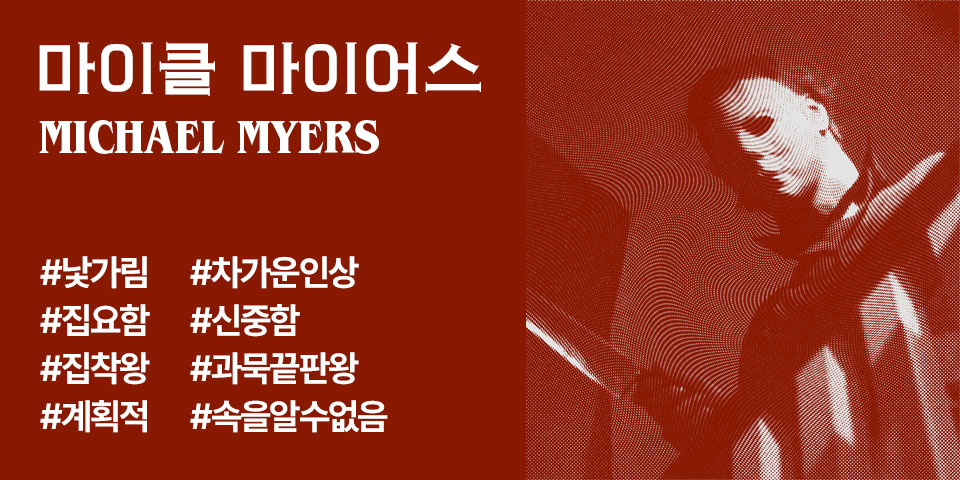
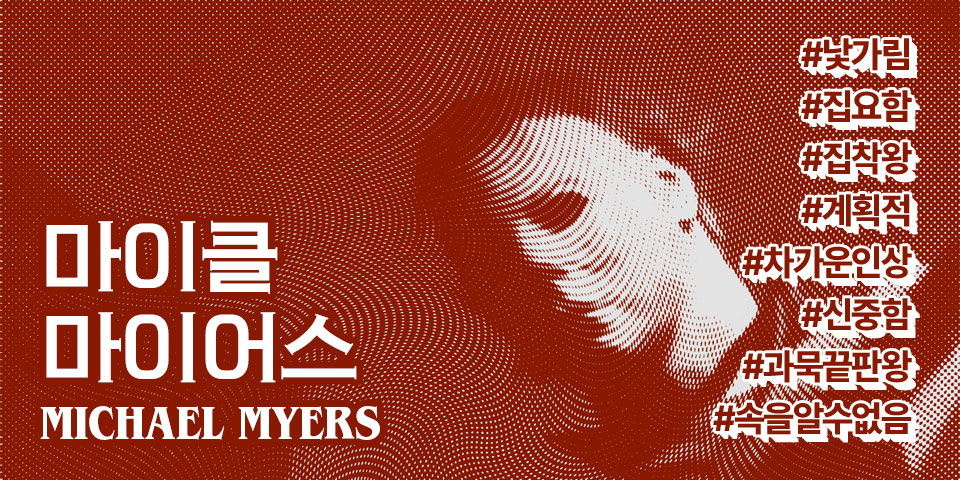
:mag: SNS 공유 이미지 수정

diff --git a/src/data/result.js b/src/data/result.js
@@ -5,8 +5,9 @@ export const results = [
     krname: "마이클 마이어스",
     nameImg: "/images/characters/character-name-01.png",
     script: "그 소년의 눈 뒤에 숨겨진 것은<br />순수한… 악마 그 자체였으니까요.",
+    ogScript: "그 소년의 눈 뒤에 숨겨진 것은 순수한… 악마 그 자체였으니까요.",
     img: "/images/characters/character-01.png",
-    ogImg: "/images/thumbnails/character-thumbnail-07.jpg",
+    ogImg: "/images/thumbnails/character-thumbnail-01.jpg",
     title: "목표한 것은 반드시 해내고 마는<br />치밀하고 집요한<br />마이클 마이어스!",
     ogtitle: "목표한 것은 반드시 해내고 마는 치밀하고 집요한 마이클 마이어스!",
     description: "‘할로윈’ 시리즈의 주인공. 얼굴에 쓴 흰색 가면과 함께 늘 입고 다니는 푸른 작업복이 트레이드 마크. 어떤 다급한 상황에서도 뛰거나 입을 열어 소리를 내지 않기로 유명하다. 설정 중 하나에 의하면 가면 뒤에 숨는 게 본인의 안식처라고 한다. 상당히 신중한 성격으로, 희생자를 가만히 몰래 지켜보다가 처단하는 식이다. 시리즈가 진행되는 작중의 긴 시간 내내 주인공 로리 스트로드에게 엄청나게 집착하는 모습을 보여준다. 시리즈를 거치며 나이가 들어감에도 불구하고 인간의 것이라곤 할 수 없을 만치의 괴력과 불사에 가까운 재생능력을 지녔기에, 사실상 인간을 뛰어넘는 존재 혹은 괴물로 해석되는 시각이 존재한다.",
@@ -27,8 +28,9 @@ export const results = [
     krname: "레더페이스",
     nameImg: "/images/characters/character-name-02.png",
     script: "여긴 도살장이야.",
+    ogScript: "여긴 도살장이야.",
     img: "/images/characters/character-02.png",
-    ogImg: "/images/thumbnails/character-thumbnail-07.jpg",
+    ogImg: "/images/thumbnails/character-thumbnail-02.jpg",
     title: "관계를 중시하는<br />책임감 있는 로맨티스트<br />레더페이스!",
     ogtitle: "관계를 중시하는 책임감 있는 로맨티스트 레더페이스!",
     description: "‘텍사스 전기톱 학살’ 시리즈의 빌런. 레더페이스(Leatherface), 즉 ‘가죽으로 된 얼굴’을 뜻하는 닉네임 그대로 안면에는 다른 인간의 얼굴 가죽으로 된 가면을 뒤집어쓴 모습이다. 거구의 몸집에 인간의 언어를 구사하지 않는 과묵한 특징이 ‘제이슨 부히스’나 ‘마이클 마이어스’ 같은 기타 슬래셔 영화 속 빌런과 닮아있지만, 그들보다 좀 더 인간적이거나 아이 같이 묘사된다. 희생양을 상대로 사랑에 빠진다거나, 낑낑거리는 소리는 내며 짜증을 낸다거나, 잦은 실수 탓에 가족들에게 구박받는 모습 등이 그러하다. 앞치마를 두른 채 가족들을 위해 요리를 하거나 집안을 꾸미는 등 살림에 열중하는 가정적인 역할을 맡고 있다.",
@@ -49,8 +51,9 @@ export const results = [
     krname: "제이슨 부히스",
     nameImg: "/images/characters/character-name-03.png",
     script: "어릴 때 죽었다고 하지만<br />그는 계속 살아난다네.",
+    ogScript: "어릴 때 죽었다고 하지만 그는 계속 살아난다네.",
     img: "/images/characters/character-03.png",
-    ogImg: "/images/thumbnails/character-thumbnail-07.jpg",
+    ogImg: "/images/thumbnails/character-thumbnail-03.jpg",
     title: "속을 알기 어려운<br />열정적인 이상주의자<br />제이슨 부히스!",
     ogtitle: "속을 알기 어려운 열정적인 이상주의자 제이슨 부히스!",
     description: "‘13일의 금요일’ 시리즈 2편부터 등장하는 빌런. 굉장히 커다란 덩치의 소유자로, 하키마스크를 쓴 채 마체테로 희생자들을 처단한다. 과묵함이 특징으로, 사람의 언어를 소리 내어 말하는 모습은 작중 단 한 번도 나오지 않는다. 또한 엄청난 맷집과 불사신에 가까운 신체 능력을 지녀서 그 어떤 공격에도 흔들리지 않고 반격하여 돌진하는 우직함을 지녔다. 일설에 의하면 방탕한 십 대들의 질 나쁜 장난으로 죽은 탓에, 비슷한 낌새의 청소년을 보면 타깃으로 삼는다고 한다. 하지만 아주 어린 아이와 개는 절대 해치지 않는 자기 나름의 규칙에 따른 관대함도 지녔다. 죽은 어머니의 복수를 위해 앞뒤 가리지 않는 저돌적인 모습 역시 보여준다.",
@@ -71,8 +74,9 @@ export const results = [
     krname: "프레디 크루거",
     nameImg: "/images/characters/character-name-04.png",
     script: "내가…! 바로 신이다.",
+    ogScript: "내가…! 바로 신이다.",
     img: "/images/characters/character-04.png",
-    ogImg: "/images/thumbnails/character-thumbnail-07.jpg",
+    ogImg: "/images/thumbnails/character-thumbnail-04.jpg",
     title: "분위기를 잘 읽는<br />재기발랄한 장난꾸러기<br />프레디 크루거!",
     ogtitle: "분위기를 잘 읽는 재기발랄한 장난꾸러기 프레디 크루거!",
     description: "‘나이트메어 시리즈’의 빌런. 꿈속에서 서식하는 몽마로 등장한다. 화상을 입은 얼굴, 손가락 마디마다 긴 칼날이 달린 장갑, 머리에 쓴 페도라, 빨간색과 초록색의 줄무늬가 수놓은 스웨터가 특징적인 외형이다. 희생자의 꿈속에 나타난 프레디가 상대를 죽이면 이것이 현실에서도 그대로 일어난다. 대체로 과묵한 다른 슬래셔 영화 속 살인마들과 달리 그는 유독 수다스럽고 유쾌한 언변을 늘어놓는다. 희생자를 처단할 때도 상대를 농락하듯 지독하게 놀려대곤 한다. 호러 영화 속에 등장하는 빌런 중 가장 다양한 변장을 선보인바, 일각에선 코스프레 마니아로 불리기도 한다.",
@@ -93,8 +97,9 @@ export const results = [
     krname: "핀헤드",
     nameImg: "/images/characters/character-name-05.png",
     script: "그 상자. 그대가 열었기에,<br />우리가 왔다.",
+    ogScript: "그 상자. 그대가 열었기에, 우리가 왔다.",
     img: "/images/characters/character-05.png",
-    ogImg: "/images/thumbnails/character-thumbnail-07.jpg",
+    ogImg: "/images/thumbnails/character-thumbnail-05.jpg",
     title: "새로운 자극을 추구하는<br />줏대 있는 사색가<br />핀헤드!",
     ogtitle: "새로운 자극을 추구하는 줏대 있는 사색가 핀헤드!",
     description: "‘헬레이저’ 시리즈의 빌런. ‘르마샹의 상자’로 불리는 퍼즐 상자를 맞추면 소환되는 수도사 무리의 리더이다. 검은 가죽옷을 착용했으며 안면에 무수히 박힌 못이 특징적. 고통이자 쾌락을 선사하는 역설적인 존재로서, 극한의 쾌락은 결국 죽음으로 이어진다고 강하게 주장한다. 희생자들을 처단할 때 철학적인 말을 읊조리고는 한다. 대체로 무표정한 얼굴에 조용하면서도 이지적인 분위기를 풍긴다. 자진해서 상자를 연 쾌락주의자들에겐 징벌을 내리지만, 타의로 상자를 연 이들에겐 관대함을 베푸는 모습을 비교해보면 자기 기준과 주관이 뚜렷하고 자기 나름의 논리를 충실히 따르는 듯하다.",
@@ -115,8 +120,9 @@ export const results = [
     krname: "처키",
     nameImg: "/images/characters/character-name-06.png",
     script: "안녕, 난 처키야. 놀아볼까?",
+    ogScript: "안녕, 난 처키야. 놀아볼까?",
     img: "/images/characters/character-06.png",
-    ogImg: "/images/thumbnails/character-thumbnail-07.jpg",
+    ogImg: "/images/thumbnails/character-thumbnail-06.jpg",
     title: "에너지 넘치는<br />자유롭고 유머러스한 핵인싸<br />처키!",
     ogtitle: "에너지 넘치는 자유롭고 유머러스한 핵인싸 처키!",
     description: "‘사탄의 인형’ 시리즈의 빌런. 본명은 찰스 리 레이. 부두술을 이용해 인형에 빙의했다. 상당한 오컬트 마니아임을 알 수 있는 부분. 인형의 주인인 소년 앤디 버클레이와 놀아주는 다정한 면모를 보이기도 한다. 그러나 심기를 거스른 자는 가차 없이 처단하는 편. 쉽게 흥분하는 불같은 성격이지만, 필요시엔 냉정하고 치밀한 계획으로 목적을 수행하는 뛰어난 두뇌와 센스 역시 겸비했다. 본모습을 숨긴 채 상대방의 호감을 사거나 속이는 것에 탁월한 재능이 있다. 작은 인형의 몸으로도 손쉽게 인간을 제압하거나 각종 무기를 능수능란하게 다루는 능력을 지녔다. 무엇보다, 아무리 죽여도 죽여도 자꾸만 끈질기게 다시 돌아오는데….",
@@ -137,6 +143,7 @@ export const results = [
     krname: "페니와이즈",
     nameImg: "/images/characters/character-name-07.png",
     script: "떠오를 시간이다.",
+    ogScript: "떠오를 시간이다.",
     img: "/images/characters/character-07.png",
     ogImg: "/images/thumbnails/character-thumbnail-07.jpg",
     title: "즐거움을 추구하는<br />정열적인 분위기메이커<br />페니와이즈!",
@@ -159,8 +166,9 @@ export const results = [
     krname: "고스트 페이스",
     nameImg: "/images/characters/character-name-08.png",
     script: "가장 좋아하는 공포 영화는 뭐지?",
+    ogScript: "가장 좋아하는 공포 영화는 뭐지?",
     img: "/images/characters/character-08.png",
-    ogImg: "/images/thumbnails/character-thumbnail-07.jpg",
+    ogImg: "/images/thumbnails/character-thumbnail-08.jpg",
     title: "넘어져도 다시 일어나는<br />초긍정 인기쟁이<br />고스트 페이스!",
     ogtitle: "넘어져도 다시 일어나는 초긍정 인기쟁이 고스트 페이스!",
     description: "‘스크림’ 시리즈의 빌런. 작중 어느 상점에서나 흔히 구매할 수 있는 할로윈용 유령 가면을 쓰고 다니며 이 때문에 그의 정체를 추리하기 힘들다는 언급이 나온다. 타깃을 처리하기에 앞서 먼저 전화를 걸어 음성변조기를 사용한 목소리로 상대를 조롱하거나 협박하는 등 공포감을 조성한다. 공포 영화 속 클리셰와 장르적 규칙을 익히 꿰차고 있으며 이것을 범행에 이용한다. 초인에 가까운 능력을 보여주는 다른 슬래셔 영화의 빌런들과 상반되게, 웬만한 인간도 제대로 붙는다면 이길 수 있을 법한 능력치를 지녔다. 따라서 넘어지거나, 상대의 공격에 속수무책으로 얻어맞거나, 계단에서 구르는 등 허술하고 슬랩스틱 코미디에 가까운 모습을 자주 선보인다.",

diff --git a/src/pages/index.js b/src/pages/index.js
@@ -46,6 +46,20 @@ export default function Home() {
   }, [])
   return (
     <Fragment>
+      <Head>
+        <meta property="og:type" content="website" />
+        <meta property="og:site_name" content="Chillin With Halloween Spookies" />
+        <meta property="og:title" content="Chillin With Halloween Spookies" />
+        <meta property="og:description" content="내 안에 숨어있는 공포 영화 속 빌런을 찾으러 GO" />
+        <meta property="og:image" content="/images/readme/thumbnail.jpg" />
+        <meta property="og:url" content="https://www.odd-scythe.com/" />
+        <meta property="twitter:card" content="summary" />
+        <meta property="twitter:site" content="Chillin With Halloween Spookies" />
+        <meta property="twitter:title" content="Chillin With Halloween Spookies" />
+        <meta property="twitter:description" content="내 안에 숨어있는 공포 영화 속 빌런을 찾으러 GO" />
+        <meta property="twitter:image" content="/images/readme/thumbnail.jpg" />
+        <meta property="twitter:url" content="https://www.odd-scythe.com/" />
+      </Head>
       <div className="container">
         <div className="title-wrapper">
           <div className="title"><Image src="/images/title.png" alt="chillin with halloween spookies" fill /></div>

diff --git a/src/pages/result.js b/src/pages/result.js
@@ -53,13 +53,13 @@ export default function Result ({character}) {
         <meta property="og:type" content="website" />
         <meta property="og:site_name" content="Chillin With Halloween Spookies" />
         <meta property="og:title" content={character?.ogtitle} />
-        <meta property="og:description" content={character?.script} />
+        <meta property="og:description" content={character?.ogScript} />
         <meta property="og:image" content={character?.ogImg} />
         <meta property="og:url" content="https://www.odd-scythe.com/" />
         <meta property="twitter:card" content="summary" />
         <meta property="twitter:site" content="Chillin With Halloween Spookies" />
         <meta property="twitter:title" content={character?.ogtitle} />
-        <meta property="twitter:description" content={character?.script} />
+        <meta property="twitter:description" content={character?.ogScript} />
         <meta property="twitter:image" content={character?.ogImg} />
         <meta property="twitter:url" content="https://www.odd-scythe.com/" />
       </Head>
